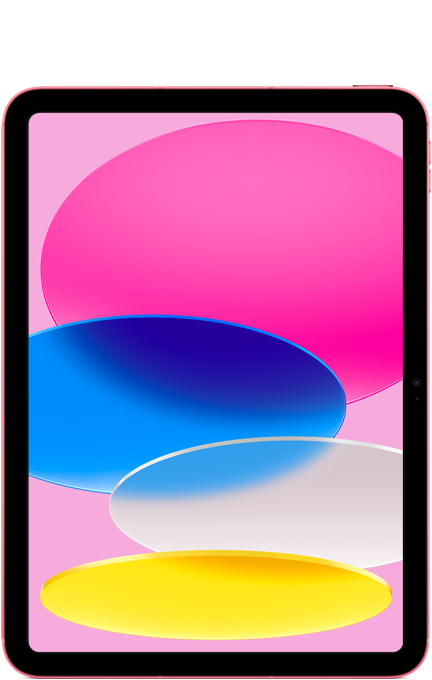
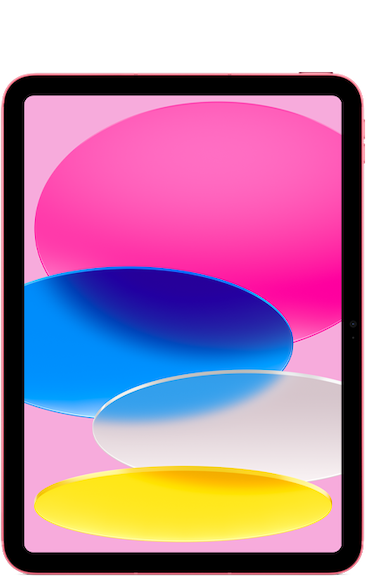
Update iPad styles for better alignment and spacing

diff --git a/CSS/ipad.css b/CSS/ipad.css
@@ -34,17 +34,15 @@ body {
 
 .whofor {
     display: flex;
-    justify-content: space-between;
-    align-items: stretch; /* Change to stretch so each div takes full height */
+    align-items: stretch; 
     width: 95%;
     margin: auto;
 }
 
 .whofor > div {
-    display: flex; /* Make each div a flex container */
-    flex-direction: column; /* Stack elements vertically */
-    justify-content: space-between; /* Distribute space between elements */
-    align-items: center; /* Center elements horizontally */
+    display: flex; 
+    flex-direction: column; 
+    align-items: center; 
     flex: 1;
     text-align: center;
 }
@@ -54,14 +52,11 @@ body {
     font-size: 18px;
 }
 
-#80percentdiv, #15percentdiv, #5percentheader {
-    width: 400px; /* Set the width to match the images */
-}
-
 #ipad {
+    padding-bottom: 4%;
     height: 450px;
     width: 300px;
-    border-radius: 5%;
+    margin-top: -35px; 
 }
 
 #ipadair {
@@ -71,6 +66,8 @@ body {
 }
 
 #ipadpro {
+    padding-top: 10%;
+    padding-bottom: 12%;
     height: 350px;
     width: 300px;
     border-radius: 5%;

diff --git a/HTML/ipad.html b/HTML/ipad.html
@@ -22,7 +22,7 @@
             <p id="80percenttagline">For those who just need a tablet.</p>
             <img id="ipad" src="/BestMacBuys/Assets/ipad.png" alt="M3Air">
             <div class="description">
-                <p id="80percentdescription">The iPad is the basic version of the iPad with all of the features that most users need. This is for those who want to watch shows, do some emailing, and draw. </p>
+                <p id="80percentdescription">The iPad is the basic version of the iPad lineup with all of the features that most users need. This is for those who want to watch shows, do some emailing, and draw. </p>
             </div>
         </div>
         <div id="15percent">
